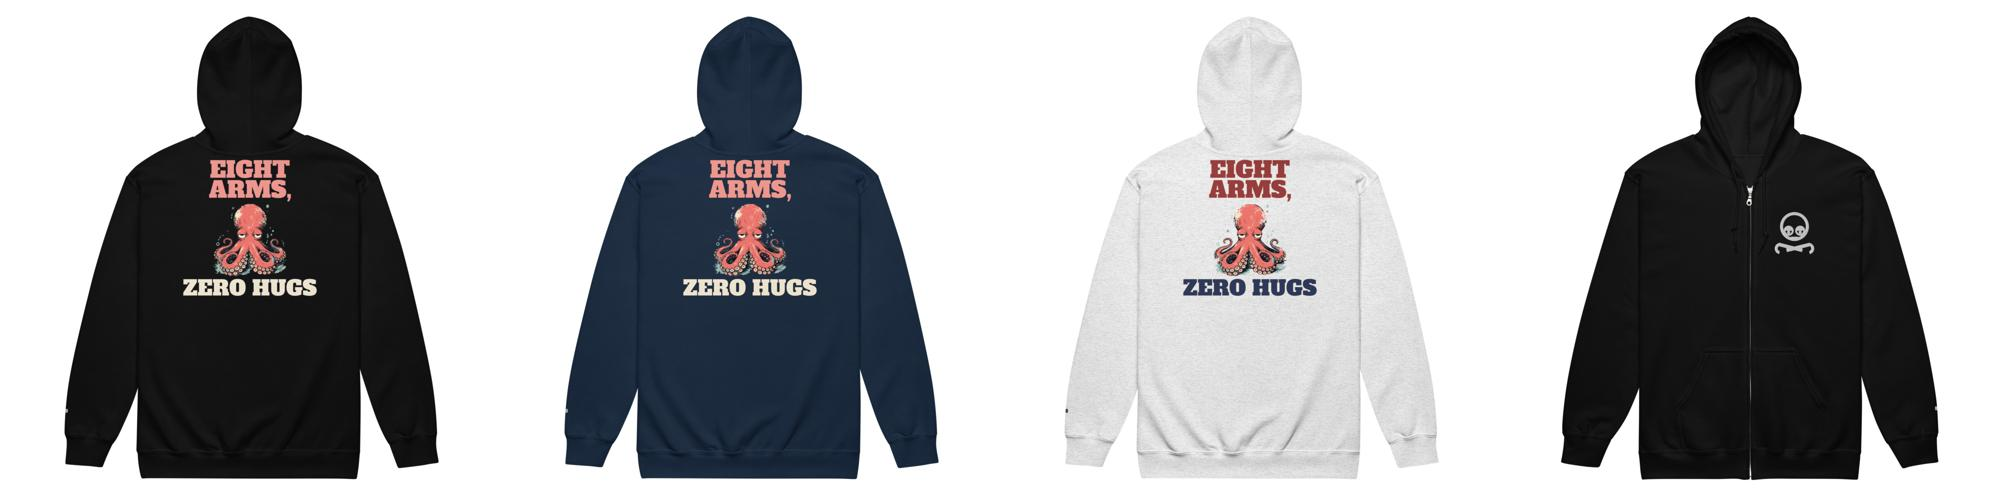
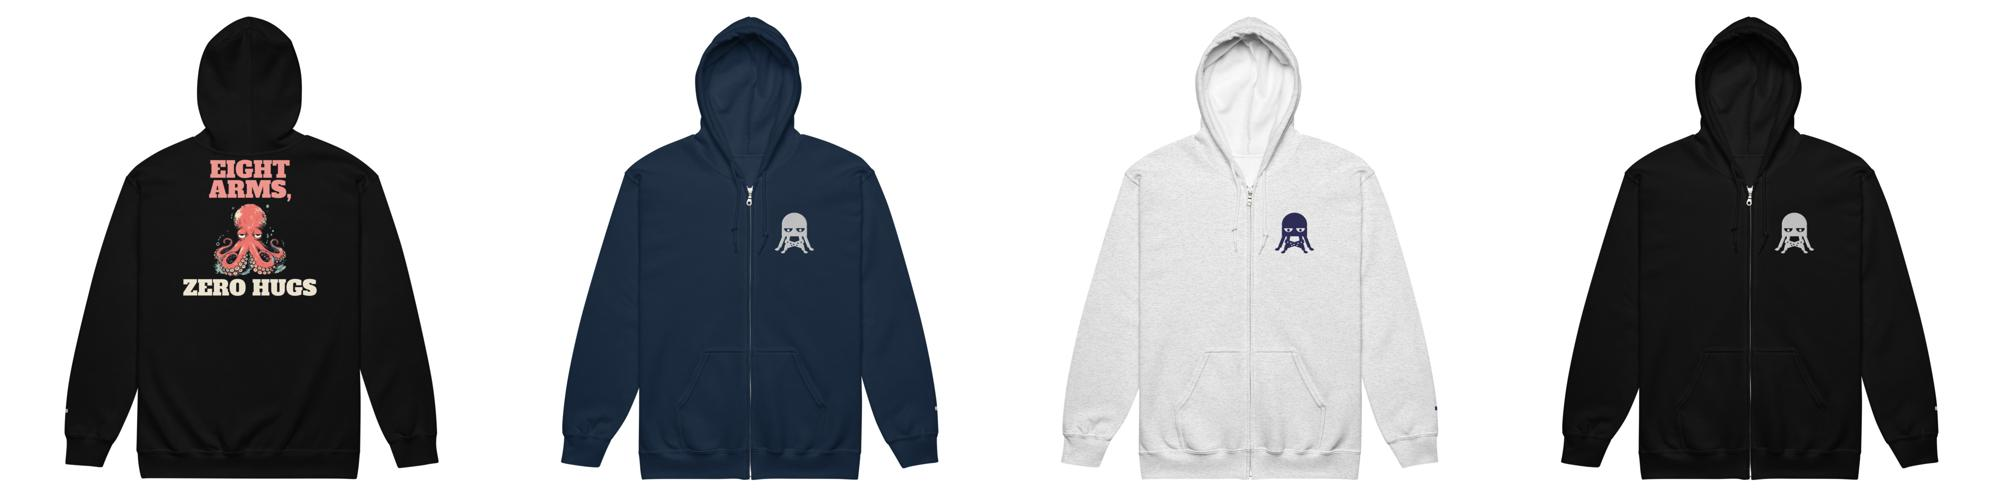
[C] review 910 octopus zip REDO: chest mark redrawn (7t)

diff --git a/docs/pipeline/910-zip-octopus-eight-arms-zero-hugs.md b/docs/pipeline/910-zip-octopus-eight-arms-zero-hugs.md
@@ -1,4 +1,4 @@
-status: REDO
+status: REVIEW
 shopify: gid://shopify/Product/15372052267312
 cover: fal-swap
 lane: C
@@ -35,3 +35,4 @@ push: zip
 - 2026-10-21 11:55 UTC director: brief written, READY (zip twin, lane C, push: zip; $0 fal; R11.12 unmeasured-phrase waiver: keyword-gap.py 2026-10-21 has no volume for "octopus zip up hoodie"; registry 1065 claimed).
 - 2026-10-21 12:21 UTC builder [C]: NEW zip twin built to REVIEW (DRAFT gid://shopify/Product/15372052267312, productSet DRAFT, category Hoodies, 18 variants Black/Navy/Ash x S-3XL at $57.99, no compare-at, Printful sync product 483657560). Twin check (R6.2): the source print (womens-octopus-eight-arms-zero-hugs-oversized-hoodie, 2232 x 2374) had EIGHT ARMS, in dark navy slab (low contrast on dark) and ZERO HUGS in coral below the octopus, clean row gaps either side of the art (rows 59-1728 kept: octopus, bubbles and teal strokes); both lines were cropped away and re-set as EIGHT / ARMS, above and ZERO HUGS below. The coral art reads on both light and dark blanks, so one art file serves both. Re-set in Alfa Slab One (a face not among the last five lane C builds). Print 3000 x 3063: 7h headline EIGHT 1790 px and ARMS, 1843 px / punch ZERO HUGS 3000 px (163% of the widest headline line); 7k type 1316 of 3063 px = 43.0%; 7l subject 1650 of 3000 px = 55.0%. Ash dark file 1091083444: brick red headline, navy punch, cream keyline; light file 1091083525: light coral headline, cream punch, dark keyline; no cream or white fill on Ash. Chest icon DRAWN BY HAND IN PIL (a heavy-lidded face with crossed arms (octopus with folded arms and a flat stare)) because fal is out of balance, one thread (white on dark blanks, #333366 on Ash), 3.50 x 3.72 in (area 4 x 4 in), thinnest stroke 4.23 mm; wrist NO in Anton 0.35 in caps, 0.36 in wide. Printful 18/18 verified from GET /sync/products (scripts/c-verify.py): Ash back 1091083444 / chest 1091083325 / wrist 1091083383; Black and Navy back 1091083525 / chest 1091083212 / wrist 1091083265. Photos on the DRAFT: Black back, Navy back, Ash back, Black front, Navy front, Ash front (variants linked to their color's front). Keyword map: primary 'octopus zip up hoodie' recorded under products (unmeasured, R11.12 waiver). No cover (fal empty; cover: fal-swap); registry row 1065 stays claimed. Audit-local (DRAFT): PASS with 1 warn (no lifestyle cover).
 - 2026-10-21 12:45 UTC director: REDO. 1. R5.3.4 (every element reads instantly; R5.3.4 'would someone wince'): the chest mark, a round face with two eyes over two curled bars, reads as a skull and crossbones at phone size on the Black mockup, not an octopus. Redraw it as a clear octopus: dome head with the heavy-lidded eyes, 4-6 curling arms below with a few suckers, two arms folded across the front (the joke). Re-sync the chest file on all 18 variants, log the ids, remake the sheet. 2. Back print, line and copy pass. $0 fix.
+- 2026-10-21 12:57 UTC builder [C]: REDO done, REVIEW. Director REDO (builder 7t, chest mark read as a skull and crossbones): the chest icon was redrawn as an octopus: a solid dome head, heavy-lidded eyes with pupils, four curling arms with hooked tips below and two arms folded across the front with sucker dots; viewed on the Black mockup at phone size it reads as an octopus. The back print, line and copy are unchanged. The old chest files are replaced on all 18 variants (new white/navy chest files). Printful 18/18 verified from GET /sync/products (scripts/c-verify.py): Ash back 1091095627 / chest 1091095437 / wrist 1091095573; Black and Navy back 1091095692 / chest 1091094581 / wrist 1091095378; chest 3.50 x 3.60 in (area 4 x 4 in), thinnest stroke 4.91 mm. Photos on the DRAFT swapped in place with the new mockups. $0 fal.

diff --git a/docs/intake-log.md b/docs/intake-log.md
@@ -37,6 +37,7 @@ RUNNING lane E since 2026-10-21 12:48 UTC
 2026-10-21 08:47 UTC — [H] Helper run: Telegram inbox empty (0 updates, nothing to log). Audit: 0 scripted ERRORs, 123 WARN (polish, left as is); cohesion-audit.md committed. Fixed a missing esbuild by running npm ci (the audit could not run without it). Category check: 0 products without a Shopify category. Freshness: womens-chihuahua-cold-since-birth-zip-hoodie, mens-papa-has-a-spot-wont-say-where-camo-hoodie, mens-catfish-caught-something-ugly-kept-it-anyway-camo-hoodie all 200. Stuck work: none (lane B lock 07:28, newest BUILDING #839 at 08:03). Daily summary not due (before 12:00 UTC). Lock released.
 2026-10-21 08:35 UTC — [E] Builder run end: #822 AOP pink camo zip built to REVIEW. fal wallet exhausted again (storage 403), so every other lane E item (all new art: #723 #745 #748 #749 #751 #752 #827 #836; #851 PARKED, #852-#858 gated on it) waits for a top-up. Lock released.
 RUNNING lane C since 2026-10-21 08:27 UTC
+2026-10-21 12:57 UTC — [C] Builder run: #910 Octopus Eight Arms, Zero Hugs zip twin REDO done (chest mark redrawn as a clear octopus per 7t), 18/18 re-synced, REVIEW. fal $0.
 2026-10-21 12:52 UTC — [C] Builder run: #915 Retro Loose Goose zip twin (new DRAFT, Black/Navy/Ash, $57.99, Fraunces 900 lettering, hand-drawn strutting-goose chest + HONK cuff), 18/18, REVIEW. fal $0.
 2026-10-21 12:51 UTC — [C] Builder run: #911 Golden Retriever I Brought You a Sock zip twin (new DRAFT, Black/Navy/Ash, $57.99, Bevan lettering, hand-drawn retriever-and-sock chest + SOCK cuff), 18/18, REVIEW. fal $0.
 2026-10-21 12:36 UTC — [C] Builder run: #912 Cat Clocked It. Said Nothing. zip twin (new DRAFT, Black/Navy/Ash, $57.99, Anton lettering, hand-drawn side-eye-cat chest + CLOCKED cuff), 18/18, REVIEW. fal $0.
